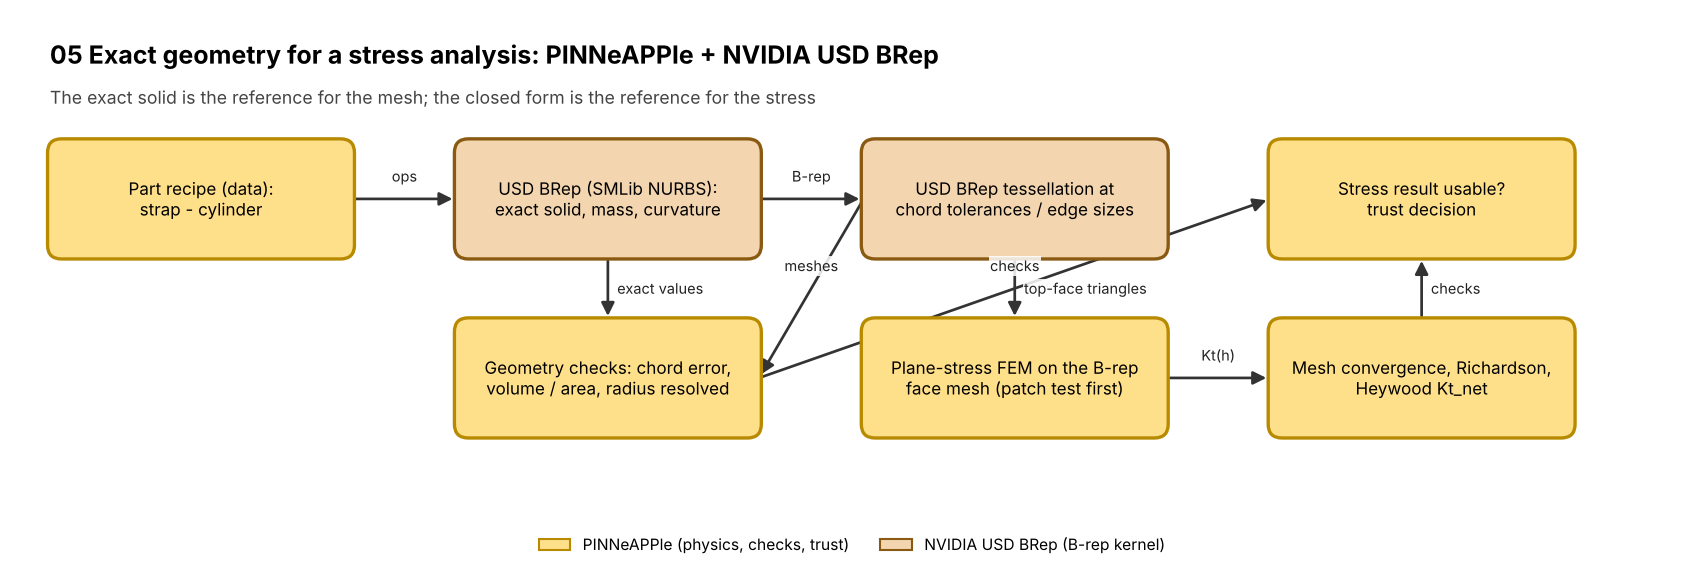
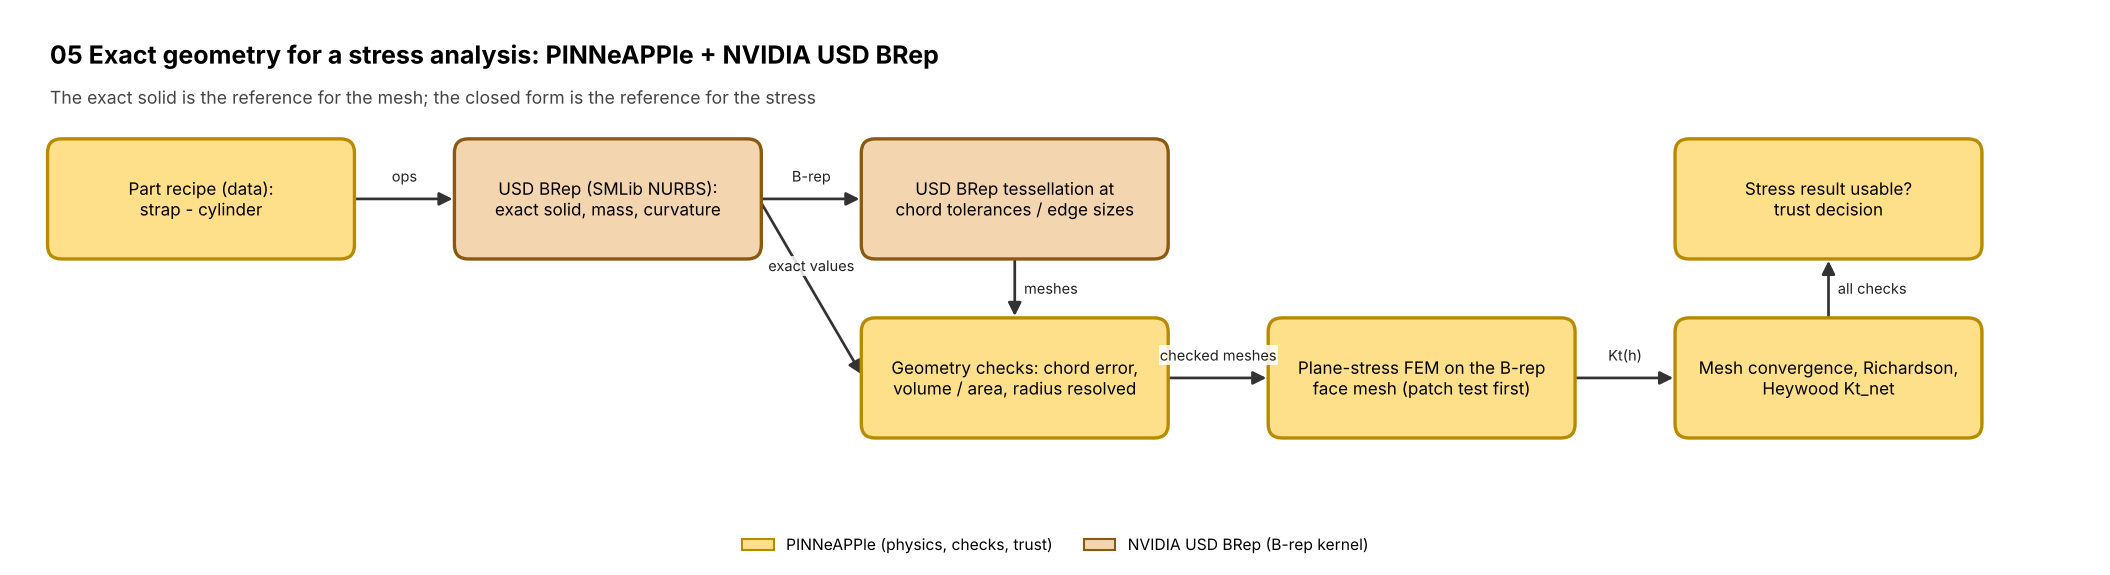
Clearer figures for examples 05 and 16
05: the geometry checks sit under the tessellation, so no arrow crosses another and every label is clear.
render_stage_png pads the colorbar away from the 3-D z label (16's usd_temperature.png). Both examples re-run:
same results (16's mesh volume differs in the 15th digit).

Claude-Session: https://claude.ai/code/session_0196ouixTBTxQjf5HW5ABt6E

diff --git a/examples/nvidia/05_brep_plate_with_hole/run.py b/examples/nvidia/05_brep_plate_with_hole/run.py
@@ -67,12 +67,12 @@ def main(smoke=False, base=None):
         [Block("rec", "Part recipe (data):\nstrap - cylinder", "pinneapple", 0, 0),
          Block("brep", "USD BRep (SMLib NURBS):\nexact solid, mass, curvature", "brep", 1, 0),
          Block("tess", "USD BRep tessellation at\nchord tolerances / edge sizes", "brep", 2, 0),
-         Block("geo", "Geometry checks: chord error,\nvolume / area, radius resolved", "pinneapple", 1, 1),
-         Block("fem", "Plane-stress FEM on the B-rep\nface mesh (patch test first)", "pinneapple", 2, 1),
-         Block("conv", "Mesh convergence, Richardson,\nHeywood Kt_net", "pinneapple", 3, 1),
-         Block("dec", "Stress result usable?\ntrust decision", "pinneapple", 3, 0)],
+         Block("geo", "Geometry checks: chord error,\nvolume / area, radius resolved", "pinneapple", 2, 1),
+         Block("fem", "Plane-stress FEM on the B-rep\nface mesh (patch test first)", "pinneapple", 3, 1),
+         Block("conv", "Mesh convergence, Richardson,\nHeywood Kt_net", "pinneapple", 4, 1),
+         Block("dec", "Stress result usable?\ntrust decision", "pinneapple", 4, 0)],
         [("rec", "brep", "ops"), ("brep", "tess", "B-rep"), ("brep", "geo", "exact values"), ("tess", "geo", "meshes"),
-         ("tess", "fem", "top-face triangles"), ("fem", "conv", "Kt(h)"), ("conv", "dec", "checks"), ("geo", "dec", "checks")],
+         ("geo", "fem", "checked meshes"), ("fem", "conv", "Kt(h)"), ("conv", "dec", "all checks")],
         os.path.join(OUT, "architecture.png"),
         subtitle="The exact solid is the reference for the mesh; the closed form is the reference for the stress")
     al = materials.get("al6061_t6")

diff --git a/pinneapple_tools/nvidia/omniverse.py b/pinneapple_tools/nvidia/omniverse.py
@@ -543,7 +543,8 @@ def render_stage_png(path: str, png: str, *, time: float | None = None, elev: fl
         import matplotlib.cm as cm
         from matplotlib.colors import Normalize
         lab, a, b, cmap = colorbar
-        fig.colorbar(cm.ScalarMappable(Normalize(a, b), cmap), ax=ax, shrink=0.6, label=lab)
+        # pad: the 3-D axes draw the z label outside their box, where a default colorbar would sit
+        fig.colorbar(cm.ScalarMappable(Normalize(a, b), cmap), ax=ax, shrink=0.6, label=lab, pad=0.12 if not flat else 0.05)
     fig.savefig(png, dpi=dpi, bbox_inches="tight")
     plt.close(fig)
     return png
